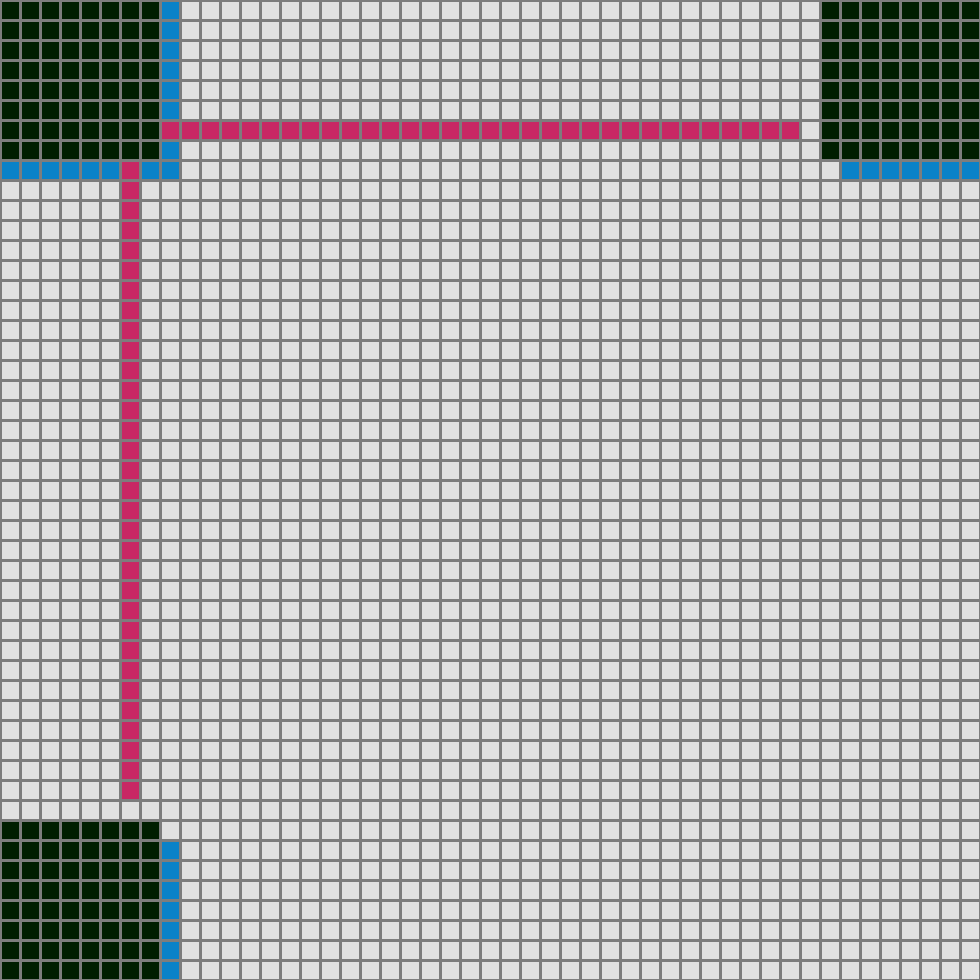
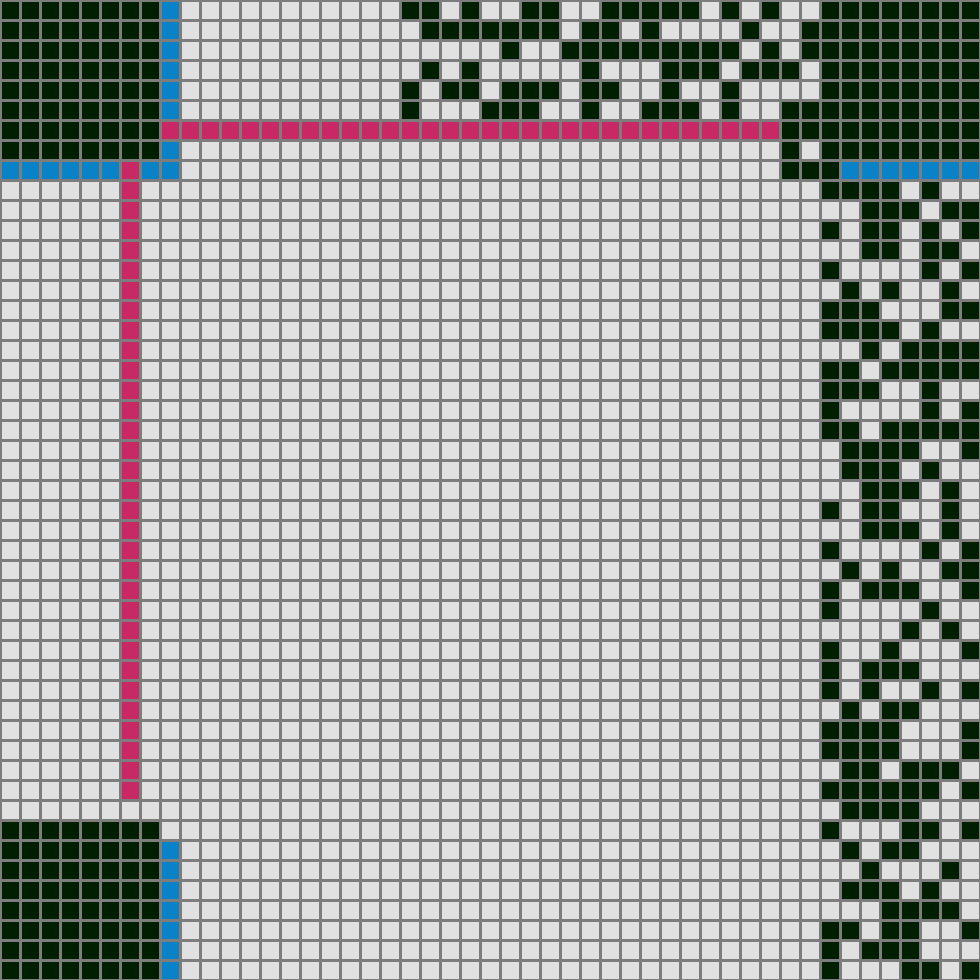
it works again. yayyyy

Changed region(s): [[0.398, 0.0, 1.0, 1.0]]

diff --git a/src/grid/grid.rs b/src/grid/grid.rs
@@ -22,6 +22,16 @@ pub struct Grid {
 }
 
 
+enum GridPoint {
+    Free(Point),
+    Used(Point),
+    Fixed,
+    Bridge,
+    None
+}
+
+
+
 impl<'a> Grid {
     fn push(&mut self, x: usize, y: usize, size: usize) {
         let mut make_row = false;
@@ -64,8 +74,15 @@ impl<'a> Grid {
         }
     }
 
-    pub fn is_valid_path(&mut self, point: Point) -> bool {
-        match self.rows.get(point.x).unwrap().cells.get(point.y) {
+    pub fn is_valid_path(&mut self, point: Option<Point>) -> bool {
+        if point.is_none() {
+            return false
+        }
+
+        let pt = point.unwrap();
+        // println!("IS VALID {} {}", pt.x, pt.y);
+
+        match self.rows.get(pt.x).unwrap().cells.get(pt.y) {
             Some(cell) => cell.is_free(),
             None => false
         }
@@ -77,10 +94,87 @@ impl<'a> Grid {
         cell.is_empty = false;
         cell.is_filled = true;
     }
+
+    pub fn get_cell_ref(&self, x: usize, y: usize) -> Option<&Cell> {
+        let cell_ref = match self.rows.get(x) {
+            Some(row) => row.cells.get(y),
+            None => None
+        };
+
+        if cell_ref.is_none() {
+            return None
+        }
+
+        let cell = cell_ref.unwrap();
+
+        if cell.is_free() {
+            Some(cell)
+        } else {
+            None
+        }
+    }
+
+    pub fn get_next_point(&self, point: Point) -> Point {
+        let adjacent_points: Vec<(isize, isize)> = vec![
+            (1, 1),
+            (-1, 1),
+            (1, 0),
+            (-1, 0)
+        ];
+
+        let best_candidate = adjacent_points.into_iter().find(|&p| {
+            let next_point = point >> p;
+            if next_point.is_none() {
+                return false
+            } else {
+                let pt = next_point.unwrap();
+                println!("x: {x} y: {y}, from {:?}", p=p, x=pt.x, y=pt.y);
+
+                let cell_ref = self.get_cell_ref(pt.x, pt.y);
+                match cell_ref {
+                    Some(_) => true,
+                    None => false
+                }
+            }
+        });
+
+
+        if best_candidate.is_some() {
+            let next_point = (point >> best_candidate.unwrap()).unwrap();
+            if point ^ next_point {
+                (point << 1).unwrap()
+            } else {
+                next_point
+            }
+        } else {
+            (point << 1).unwrap()
+        }
+    }
 }
 
-pub fn encode_byte(grid: &mut Grid, byte: u8) {
 
+
+pub fn encode_byte(grid: &mut Grid, byte: u8, last_position: (usize, usize)) -> (usize, usize) {
+    let mut i = 7u8;
+    let (mut x, mut y) = last_position;
+    let mut cx = 0;
+    let mut cy = 0;
+    let mut depth = 0;
+    let mut point = Point { x: x, y: y };
+
+    while i > 0 {
+        let xbit = byte & (1 << i);
+
+        grid.encode_bit(xbit == 0, point);
+        point = grid.get_next_point(point);
+
+        // get next point
+        create_qr_image(&grid);
+
+        i -= 1;
+    }
+
+    (point.x, point.y)
 }
 
 pub fn create_grid(size: usize, mask: u8, qr_version: u8, message: String) {
@@ -94,10 +188,11 @@ pub fn create_grid(size: usize, mask: u8, qr_version: u8, message: String) {
         let y = i % size;
         grid.push(x, y, size);
     }
-
+    let mut position: (usize, usize) = (48, 48);
     for byte in message.into_bytes() {
-        encode_byte(&mut grid, byte);
+        position = encode_byte(&mut grid, byte, position);
+        println!("{:?}", position);
     }
 
-    create_qr_image(grid);
+    // create_qr_image(grid);
 }

diff --git a/src/grid/traverse.rs b/src/grid/traverse.rs
@@ -1,5 +1,5 @@
 use std::collections::HashMap;
-use std::ops::{Add, Shl, Shr, Sub};
+use std::ops::{Add, Shl, Shr, Sub, BitXor};
 
 
 #[derive(Copy, Clone)]
@@ -16,6 +16,36 @@ impl Shl<usize> for Point {
              0 => None,
              _ => Some(Point { x: self.x, y: self.y - rhs })
         }
+    }
+}
+
+impl BitXor for Point {
+    type Output = bool;
+
+    fn bitxor(self, rhs: Point) -> bool {
+        // check to see if the current point is below the other point
+        self.y >= rhs.y && self.x > rhs.x
+    }
+}
+
+impl Shr<(isize, isize)> for Point {
+    type Output = Option<Point>;
+
+    fn shr(self, rhs: (isize, isize)) -> Option<Point> {
+        let (x, y) = rhs;
+        let (cx, cy) = (self.x as isize, self.y as isize);
+
+        if cx + x < 0 || cy + y < 0 {
+            return None
+        }
+
+        let point = Point { x: (cx + x) as usize, y: (cy + y) as usize };
+
+        if point.x > 48 || point.y > 48 {
+            return None
+        }
+
+        Some(point)
     }
 }
 
@@ -54,7 +84,6 @@ impl Sub<usize> for Point {
 
 impl Point {
     pub fn generate_adjacent_points(point: Point) -> Vec<Point> {
-        let size = 49 * 49;
         let shift_operators = "< > - +";
         let mut points: Vec<Point> = vec![];
         for c in shift_operators.chars() {
@@ -73,9 +102,5 @@ impl Point {
         }
 
         points
-    }
-
-    fn index(&self, dim: usize) -> usize {
-        (dim / self.x) + self.y
     }
 }

diff --git a/src/grid/image.rs b/src/grid/image.rs
@@ -6,17 +6,10 @@ use std::path::Path;
 use grid::cell::Cell;
 use grid::grid::Grid;
 use self::image_lib::{
-    GenericImage,
     ImageBuffer,
     Rgb,
-    Pixel
+    Frame
 };
-
-enum ColorSet {
-    Border(Color),
-    CellFixed(Color),
-    CellFree(Color)
-}
 
 struct Color {
     r: u8,
@@ -67,7 +60,7 @@ fn get_pixel_points(cell: &Cell) -> Vec<(u32, u32, Color)> {
     pixels
 }
 
-pub fn create_qr_image(grid: Grid) {
+pub fn create_qr_image(grid: &Grid) {
     let mut img = ImageBuffer::new(49 * 20, 49 * 20);
     for row in grid.rows {
         for cell in row.cells {
